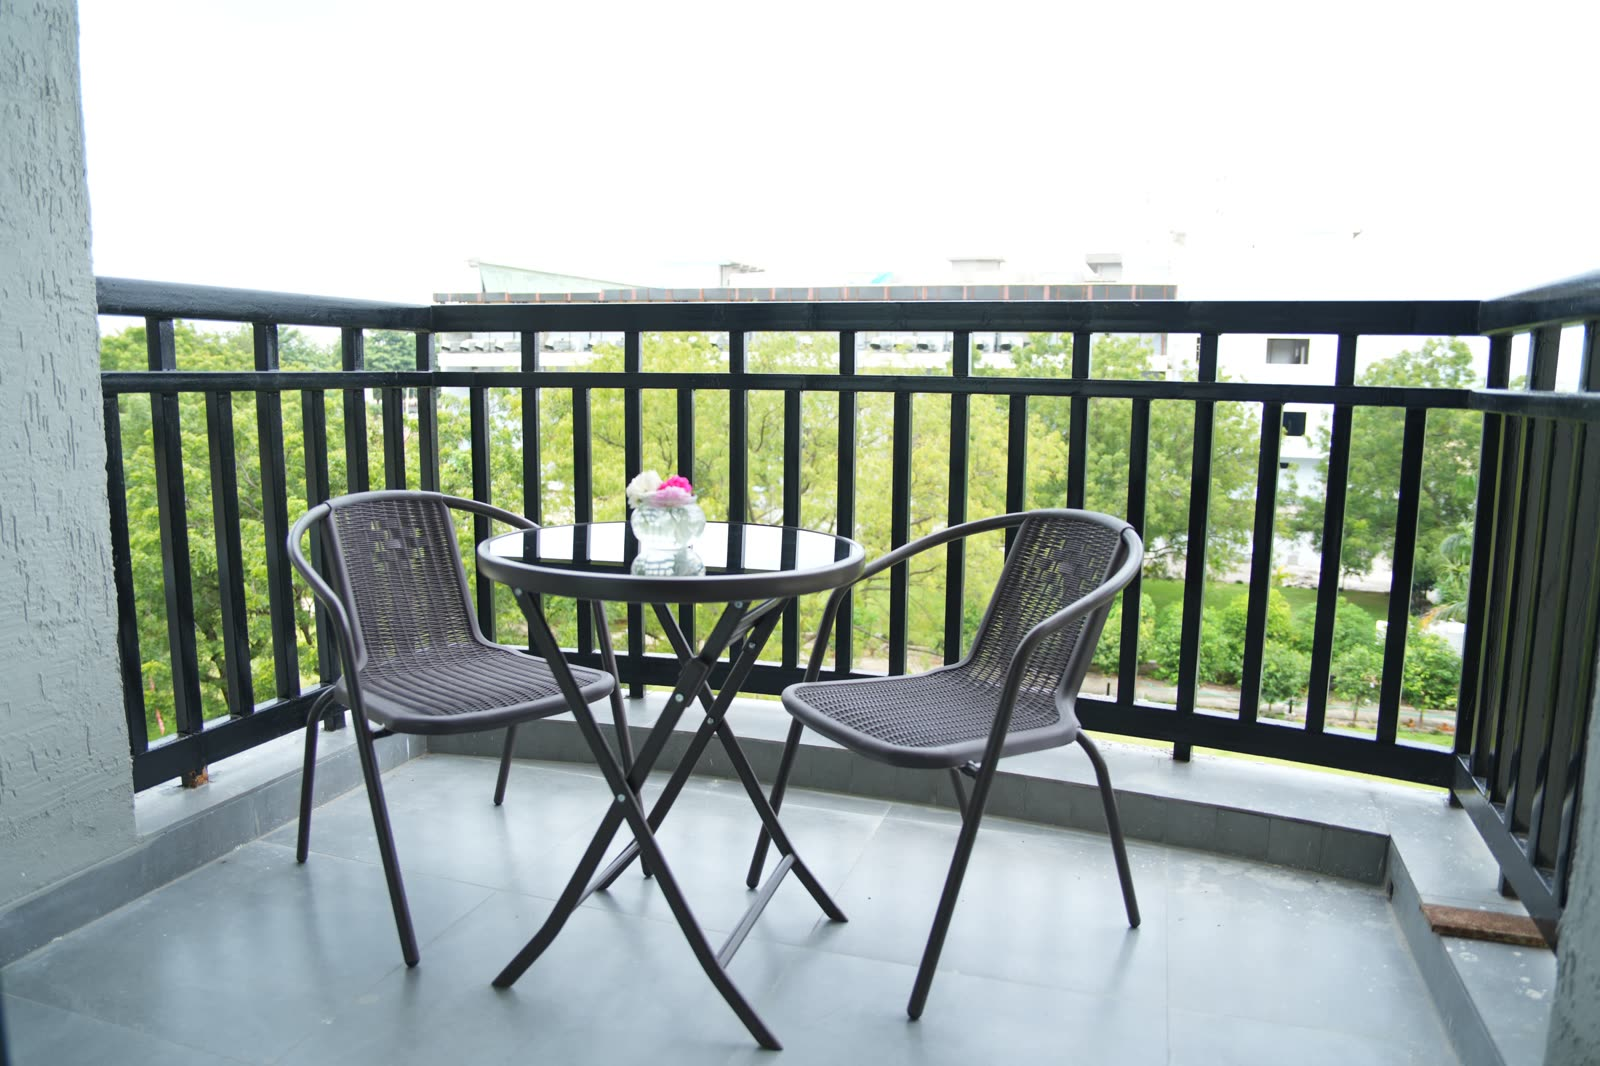
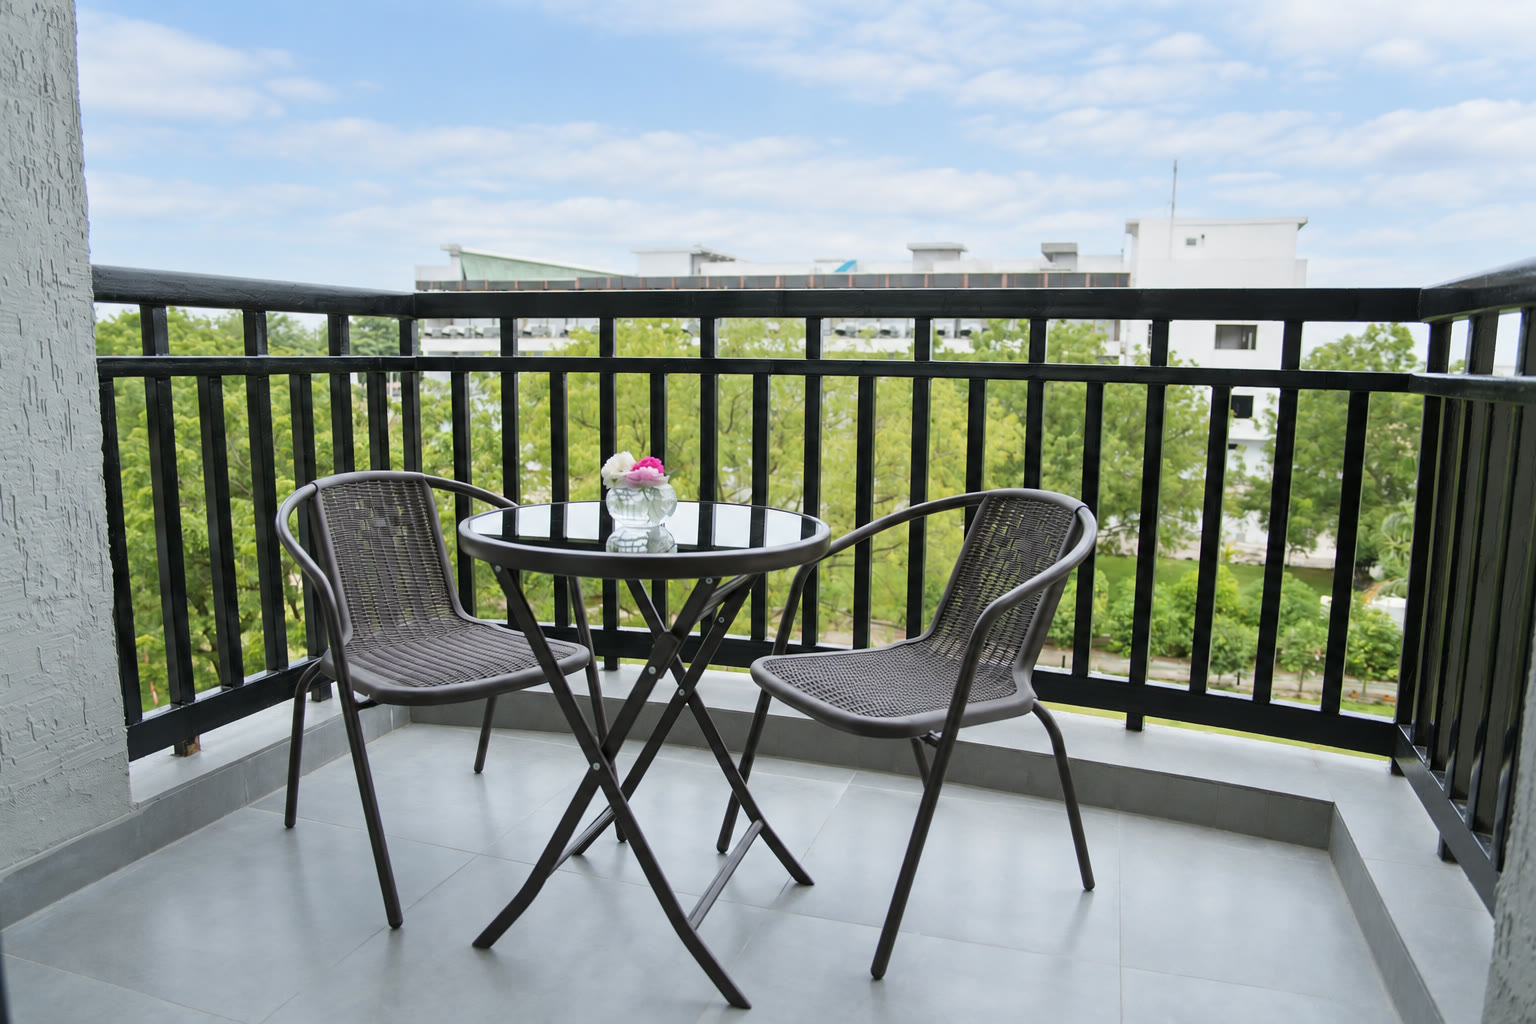
Estate opens on the gardens from the air (drone still, scaffolding removed in ChatGPT); Hotel balcony photo replaced by the cleaned version (blue sky, rust mark gone) (Vishal)

diff --git a/estate.html b/estate.html
@@ -15,7 +15,7 @@
 <main id="main"><section class="hero wrap hero--titlefirst">
 <span class="eyebrow">The estate &middot; 15 acres</span>
 <h1 class="vh">The Estate</h1>
-<div class="hero-figure"><img src="assets/img/cor-outdoor-lawn-night-stage-event.jpg" alt="The paved courtyard at night under fairy-lit trees, laid with tables and chairs before a lit stage"></div>
+<div class="hero-figure"><img src="assets/img/est-gardens-aerial.jpg" alt="The gardens from above: lawns, palms, tiled pavilions and pergolas, with the hotel block alongside"></div>
 
 <div class="hero-cta"><a class="btn" href="contact.html">Enquire</a><a class="btn" href="tel:+919988435777">+91 99884 35777</a></div>
 </section><section class="panel"><div class="wrap"><div class="grid-head"><h2>The halls</h2></div><div class="venue-grid venue-grid--bare"><figure><img src="assets/img/con-grand-hall-timber-columns-stage.jpg" alt="The pillarless grand hall under a grid of round ceiling lights, with a stage at the far end" loading="lazy"></figure><figure><img src="assets/img/con-carpeted-hall-cove-lighting.jpg" alt="A long carpeted hall with cove lighting, laid with round tables" loading="lazy"></figure><figure><img src="assets/img/con-banquet-hall-chairs-temple-backdrop-stage.jpg" alt="A hall set with rows of covered chairs facing a temple-style stage" loading="lazy"></figure><figure><img src="assets/img/con-hall-theatre-seating-chandelier.jpg" alt="Covered chairs in rows under a chandelier on a marble floor" loading="lazy"></figure><figure><img src="assets/img/con-small-hall-round-table-setup.jpg" alt="A smaller marble-floored hall with round tables and covered chairs" loading="lazy"></figure><figure><img src="assets/img/amn-double-height-dining-hall-buffet.jpg" alt="A double-height dining hall with a glass wall and a buffet line, guests at tables" loading="lazy"></figure></div></div></section>
